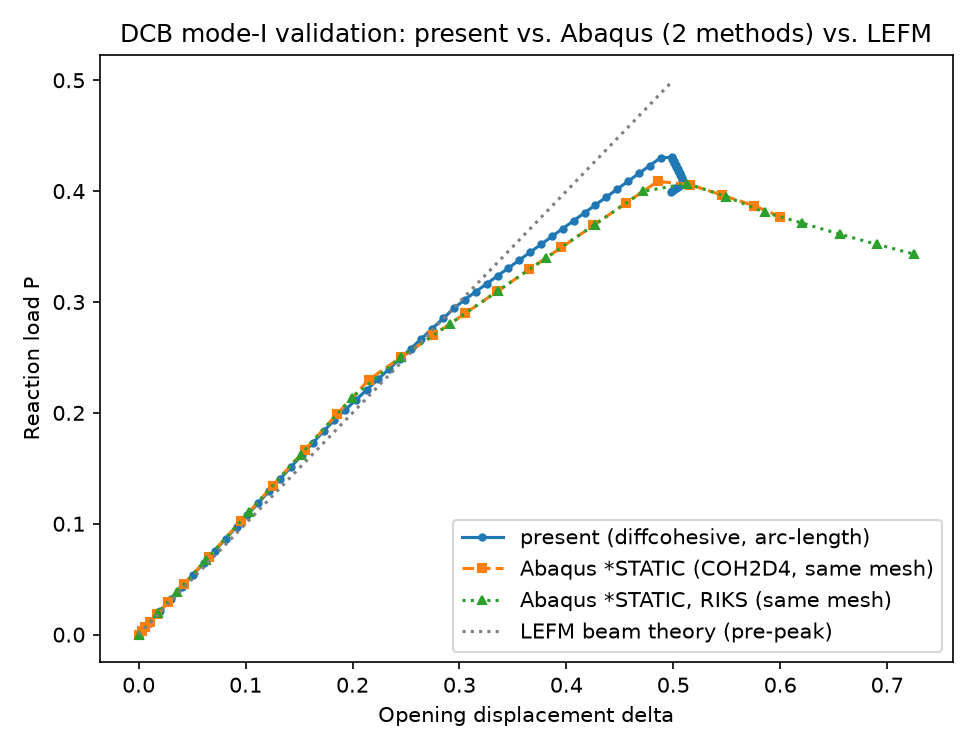
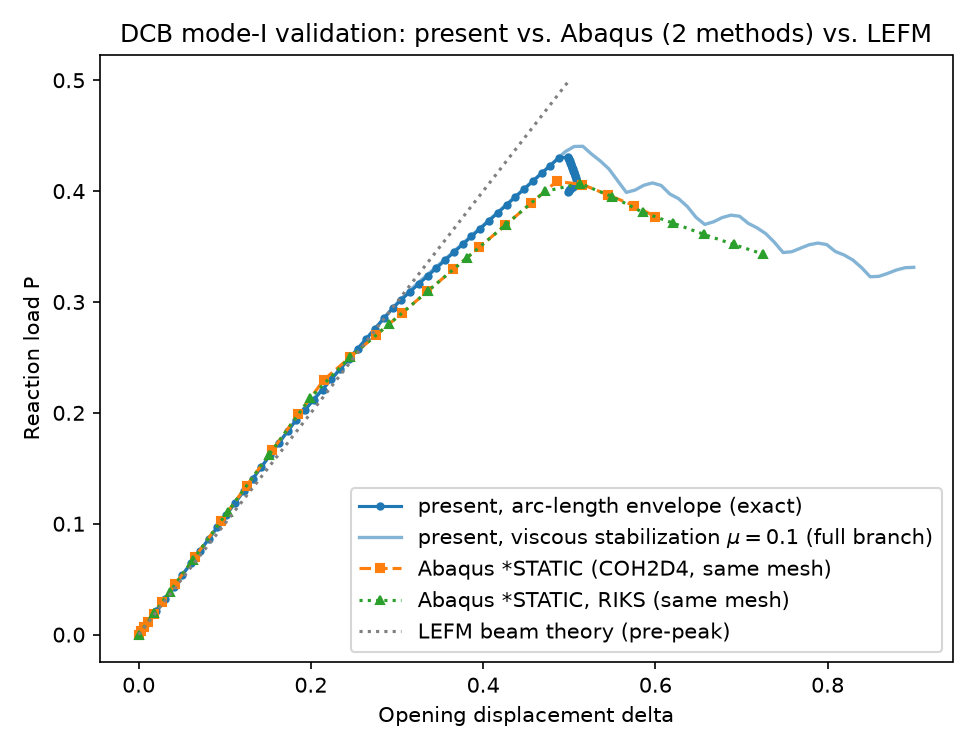
Show stabilized full softening branch in 2D DCB comparison

diff --git a/examples/dcb.py b/examples/dcb.py
@@ -40,10 +40,12 @@ def lefm_compliance(a0: float, E: float, arm_height: float) -> float:
 
 
 def build_dcb_model(
-    length, arm_height, crack_length, nx, ny, E, nu, T_max_n, T_max_s, G_c1, G_c2, K
+    length, arm_height, crack_length, nx, ny, E, nu, T_max_n, T_max_s, G_c1, G_c2, K,
+    viscosity=0.0,
 ):
     mesh = build_double_cantilever_mesh(length, arm_height, crack_length, nx, ny)
-    law = BilinearMixedModeTSL(T_max_n=T_max_n, T_max_s=T_max_s, G_c1=G_c1, G_c2=G_c2, K=K)
+    law = BilinearMixedModeTSL(T_max_n=T_max_n, T_max_s=T_max_s, G_c1=G_c1, G_c2=G_c2, K=K,
+                               viscosity=viscosity)
     model = CohesiveMeshModel(
         points=mesh.points,
         bulk_elements={"triangle": mesh.elements},
@@ -72,10 +74,53 @@ def run_dcb(
     max_disp=0.6,
     arc_ds=0.003,
     arc_steps=200,
+    viscosity=0.0,
 ):
     model, mesh = build_dcb_model(
-        length, arm_height, crack_length, nx, ny, E, nu, T_max_n, T_max_s, G_c1, G_c2, K
+        length, arm_height, crack_length, nx, ny, E, nu, T_max_n, T_max_s, G_c1, G_c2, K,
+        viscosity=viscosity,
     )
+    if viscosity > 0.0:
+        # Viscous damage regularization active: displacement control with adaptive increment
+        # cutting traces the whole softening branch directly (no arc-length handoff needed),
+        # mirroring the 3D comparison runner (abaqus/dcb3d/run_diffcohesive_3d.py).
+        from diffcohesive.solvers import adaptive_displacement_solve
+
+        dtype = model.points.dtype
+        right_dofs = model.dof_indices(mesh.right_edge_nodes)
+        tip_top_y = model.dof_indices(torch.tensor([mesh.tip_top]))[1]
+        tip_bottom_y = model.dof_indices(torch.tensor([mesh.tip_bottom]))[1]
+
+        def prescribed_fn(d):
+            pd = torch.cat([right_dofs, tip_top_y.reshape(1), tip_bottom_y.reshape(1)])
+            pv = torch.cat([
+                torch.zeros(right_dofs.numel(), dtype=dtype),
+                torch.tensor([d / 2, -d / 2], dtype=dtype),
+            ])
+            return pd, pv
+
+        kappa = model.init_history()
+        u = torch.zeros(model.n_dof, dtype=dtype)
+        delta_list, P_list = [0.0], [0.0]
+        d_prev = 0.0
+        for d in torch.linspace(0.0, max_disp, n_disp_steps, dtype=dtype)[1:]:
+            out = adaptive_displacement_solve(
+                model, prescribed_fn, kappa, u, d_prev, float(d),
+                initial_step=float(d) - d_prev, max_iter=60,
+            )
+            if out is None or out[3] < float(d) - 1e-12:
+                break
+            result, u, kappa, d_prev = out
+            P_top, P_bottom = result.reaction[-2].item(), result.reaction[-1].item()
+            delta_list.append(float(d))
+            P_list.append(0.5 * (P_top - P_bottom))
+        return {
+            "delta": delta_list,
+            "P": P_list,
+            "mesh": mesh,
+            "model": model,
+            "switch_index": None,
+        }
     dtype = model.points.dtype
 
     right_dofs = model.dof_indices(mesh.right_edge_nodes)

diff --git a/abaqus/dcb/compare_abaqus.py b/abaqus/dcb/compare_abaqus.py
@@ -30,6 +30,11 @@ def load_abaqus_csv(path):
 def main():
     fem = run_dcb(**{})
     delta_fem, P_fem = fem["delta"], fem["P"]
+    # Stabilized run: small viscous damage regularization traces the full softening branch
+    # under displacement control (same device as the 3D comparison); mu kept small so the
+    # added artificial toughness stays minor.
+    fem_v = run_dcb(viscosity=0.1, max_disp=0.9, n_disp_steps=90)
+    delta_v, P_v = fem_v["delta"], fem_v["P"]
     # Show the softening ENVELOPE: our arc-length traces the serrated equilibrium path through
     # each local element snap-back (the path doubles back in delta); both Abaqus solution
     # methods (automatic *STATIC incrementation and RIKS) step over those, so for a like-for-
@@ -43,6 +48,15 @@ def main():
             break
     delta_fem, P_fem = delta_fem[:cut], P_fem[:cut]
 
+    # Cache both computed curves so figure styling can be redone without re-solving
+    # (used by paper/figures_notebook.ipynb).
+    for name, dd, pp in [("dcb_diffcohesive_envelope.csv", delta_fem, P_fem),
+                          ("dcb_diffcohesive_mu01.csv", delta_v, P_v)]:
+        with open(HERE / name, "w", newline="") as f:
+            w = csv.writer(f)
+            w.writerow(["delta", "P"])
+            w.writerows(zip(dd, pp))
+
     abq_csv = HERE / "dcb_abaqus_result.csv"
     delta_abq, P_abq = load_abaqus_csv(abq_csv)
 
@@ -52,8 +66,12 @@ def main():
     delta_lin = [0.0, delta_fem[peak_idx]]
 
     plt.figure(figsize=(6.5, 5))
-    plt.plot(delta_fem, P_fem, "o-", ms=3, label="present (diffcohesive, arc-length)")
-    plt.plot(delta_abq, P_abq, "s--", ms=4, label="Abaqus *STATIC (COH2D4, same mesh)")
+    plt.plot(delta_fem, P_fem, "o-", ms=3, color="C0",
+             label="present, arc-length envelope (exact)")
+    plt.plot(delta_v, P_v, "-", lw=1.6, color="C0", alpha=0.55,
+             label="present, viscous stabilization $\mu=0.1$ (full branch)")
+    plt.plot(delta_abq, P_abq, "s--", ms=4, color="C1",
+             label="Abaqus *STATIC (COH2D4, same mesh)")
     riks_csv = HERE / "dcb_riks_job_result.csv"
     if riks_csv.exists():
         delta_rk, P_rk = load_abaqus_csv(riks_csv)
